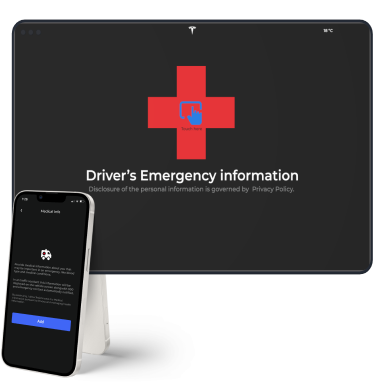
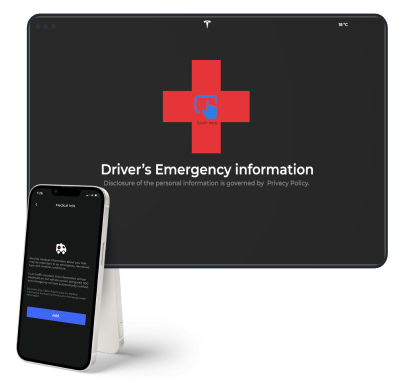
updated tesla photo

Changed region(s): [[0.0, 0.0287, 0.9973, 1.0]]

diff --git a/index.html b/index.html
@@ -76,8 +76,7 @@
                         <div class="col-lg-1">&nbsp;</div>
                         <div class="col-lg-4 hover-zoomin" >
                             <a href="#" title="">
-                                <image class="img-fluid tesla-img-screen" src="assets/Tesla image screen.png" alt="Tesla screen"  />
-                                <img class="img-fluid tesla-img-mobile" src="assets/Tesla image mobile.png" alt="Tesla mobile" >
+                                <image class="img-fluid tesla-img-screen" src="assets/Tesla.png" alt="Tesla"  />
                             </a>
                         </div>
                     </div>
